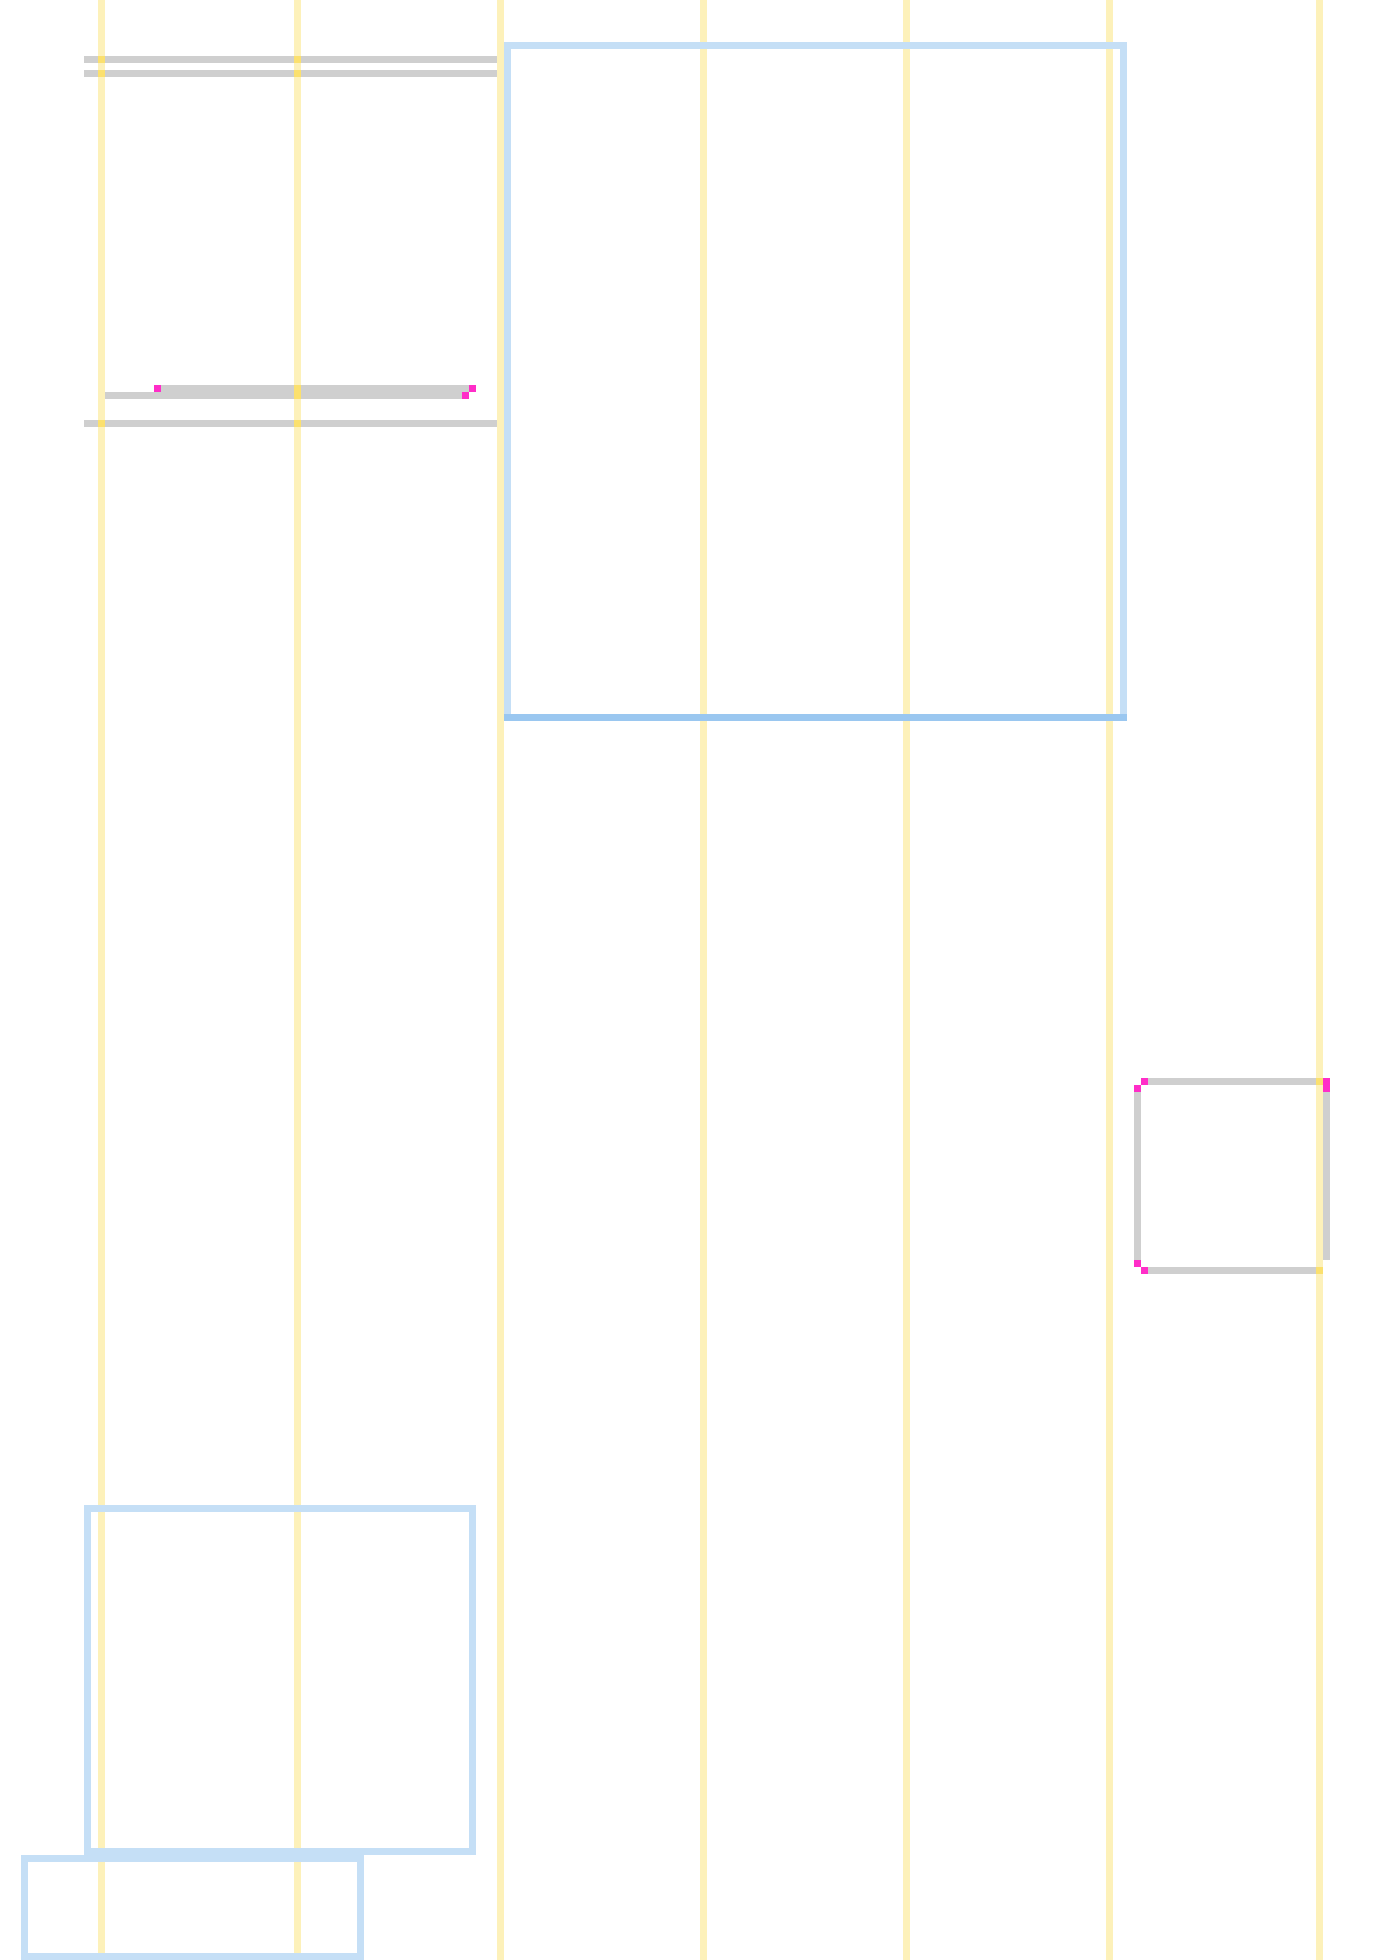
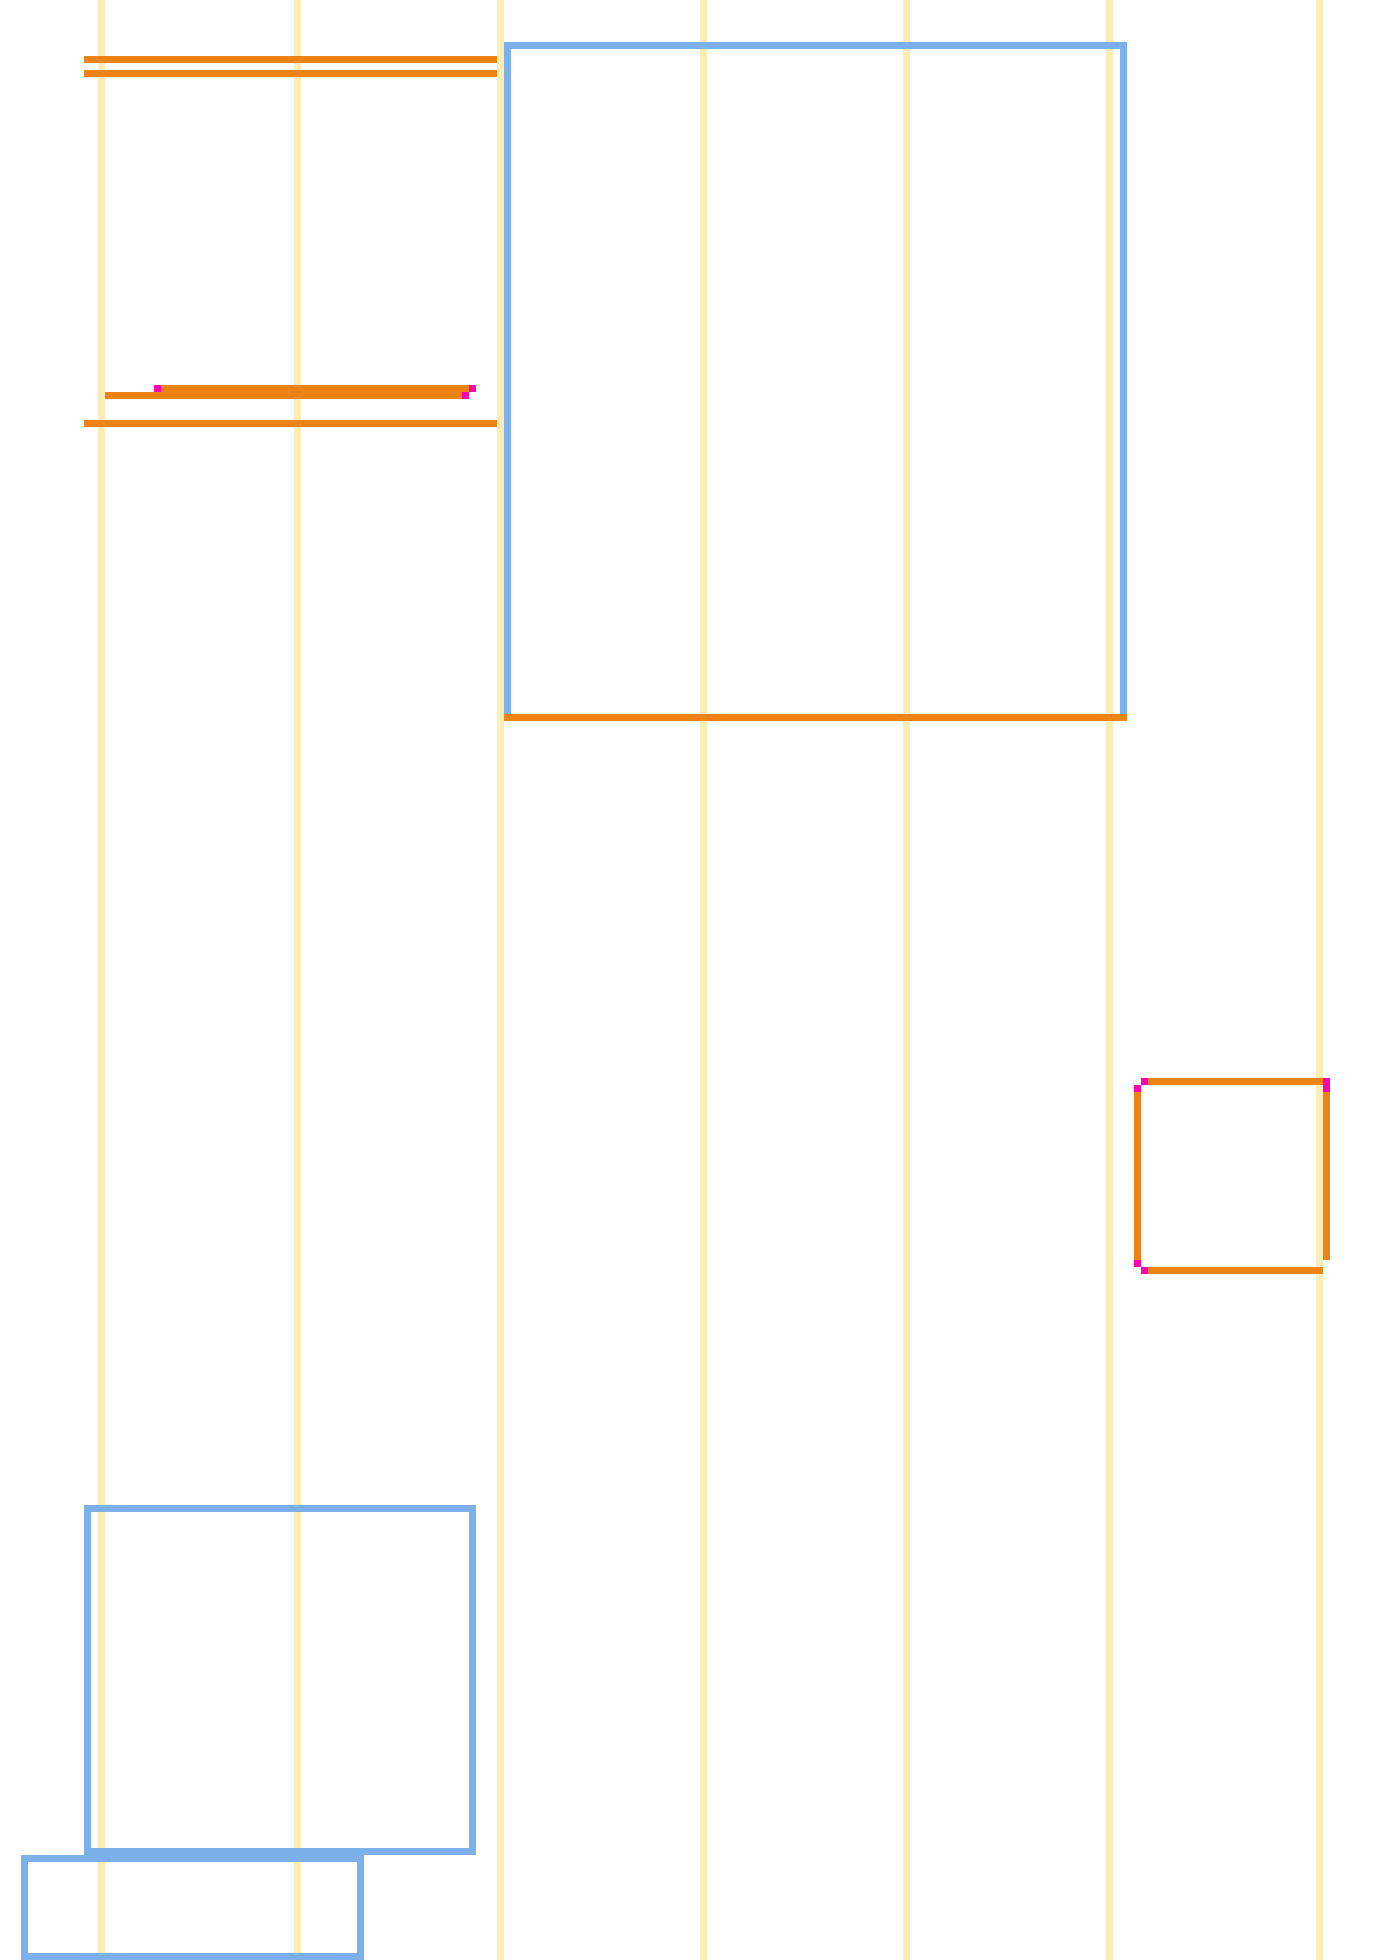
scaled/overlay: give it its own saturated palette -- the grey was invisible
No blend mode was involved; it is straight alpha compositing. The fault
was reusing the standalone chart's palette, where separators are light
grey (191,191,191). Against pure white that reads fine. Composited over a
newspaper it is almost exactly the value of the paper, so every rule --
the main signal -- disappeared, leaving only the corners and reference
lines visible.

The page is greyscale, so the overlay now uses SATURATED colours, which
nothing in the scan can compete with:

    separator rule   orange  (235,120,0)   alpha 235
    end meets end    black                 alpha 255
    end near another magenta (255,0,180)   alpha 255
    gutter/content   yellow                alpha  85
    photo perimeter  blue    (30,120,220)  alpha 150

Chosen to stay distinguishable without relying on hue discrimination --
orange / blue / magenta / black, no red-green pairing.

Paint order also corrected: reference lines go down first so a real rule
always paints over them, rather than a gutter tint sitting on top of the
rule it is meant to be a backdrop for.

Verified by compositing page + overlay offline and cropping at 1:1, over
both white paper and solid black photo areas.

Claude-Session: https://claude.ai/code/session_01FiL5RaDmQAWNR3gnQRCAgK

Changed region(s): [[0.0614, 0.0, 0.8293, 0.3735], [0.0, 0.7469, 0.3379, 1.0], [0.7986, 0.5291, 0.9521, 0.6536]]

diff --git a/transcribe/scaled/experiments/separator_grid.py b/transcribe/scaled/experiments/separator_grid.py
@@ -382,12 +382,23 @@ def render(counts, junction, near, gutter, photo, n_cols, n_rows,
     return out_path
 
 
-# Alpha per layer in the OVERLAY render. White becomes fully transparent
-# so the newspaper reads through it; everything else is graded so the
-# marks stay legible over printed type. The grid ruling is dropped
-# entirely -- over a real page it is noise, and the cell positions are
-# still implied by the marks themselves.
-OVERLAY_ALPHA = {"grey": 190, "gutter": 90, "photo": 110,
+# The OVERLAY needs its OWN palette. The standalone chart draws separators
+# in light grey against pure white, which is legible there -- but composited
+# over a newspaper that grey is almost exactly the value of the paper and
+# disappears. The page is greyscale, so the overlay uses SATURATED colours,
+# which no part of the scan can compete with.
+#
+# Chosen to stay distinguishable without relying on hue discrimination
+# (orange / blue / magenta / black, no red-green pairing).
+OVERLAY_RULE = (235, 120, 0)      # separator -- orange, the main signal
+OVERLAY_JUNCTION = (0, 0, 0)      # end meets end -- black, maximum contrast
+OVERLAY_NEAR = (255, 0, 180)      # end near another -- magenta
+OVERLAY_GUTTER = (245, 200, 40)   # reference lines sit back
+OVERLAY_PHOTO = (30, 120, 220)
+
+# White is fully transparent so the page reads through. Everything else is
+# graded by how much it is meant to assert.
+OVERLAY_ALPHA = {"rule": 235, "gutter": 85, "photo": 150,
                  "near": 255, "junction": 255}
 
 
@@ -410,17 +421,17 @@ def render_overlay(conn, page_id, counts, junction, near, gutter, photo,
     for y in range(n_rows):
         for x in range(n_cols):
             rgb, a = None, 0
-            if counts[y][x]:
-                v = int(255 * max(0.0, 1.0 - STEP_DARK * counts[y][x]))
-                rgb, a = (v, v, v), OVERLAY_ALPHA["grey"]
+            # Reference lines first, so a real rule always paints over them.
             if gutter[x]:
-                rgb, a = GUTTER, max(a, OVERLAY_ALPHA["gutter"])
+                rgb, a = OVERLAY_GUTTER, OVERLAY_ALPHA["gutter"]
             if photo[y][x]:
-                rgb, a = PHOTO, max(a, OVERLAY_ALPHA["photo"])
+                rgb, a = OVERLAY_PHOTO, OVERLAY_ALPHA["photo"]
+            if counts[y][x]:
+                rgb, a = OVERLAY_RULE, OVERLAY_ALPHA["rule"]
             if near[y][x]:
-                rgb, a = NEAR, OVERLAY_ALPHA["near"]
+                rgb, a = OVERLAY_NEAR, OVERLAY_ALPHA["near"]
             if junction[y][x]:
-                rgb, a = JUNCTION, OVERLAY_ALPHA["junction"]
+                rgb, a = OVERLAY_JUNCTION, OVERLAY_ALPHA["junction"]
             if rgb:
                 px[x, y] = (rgb[0], rgb[1], rgb[2], a)
 
